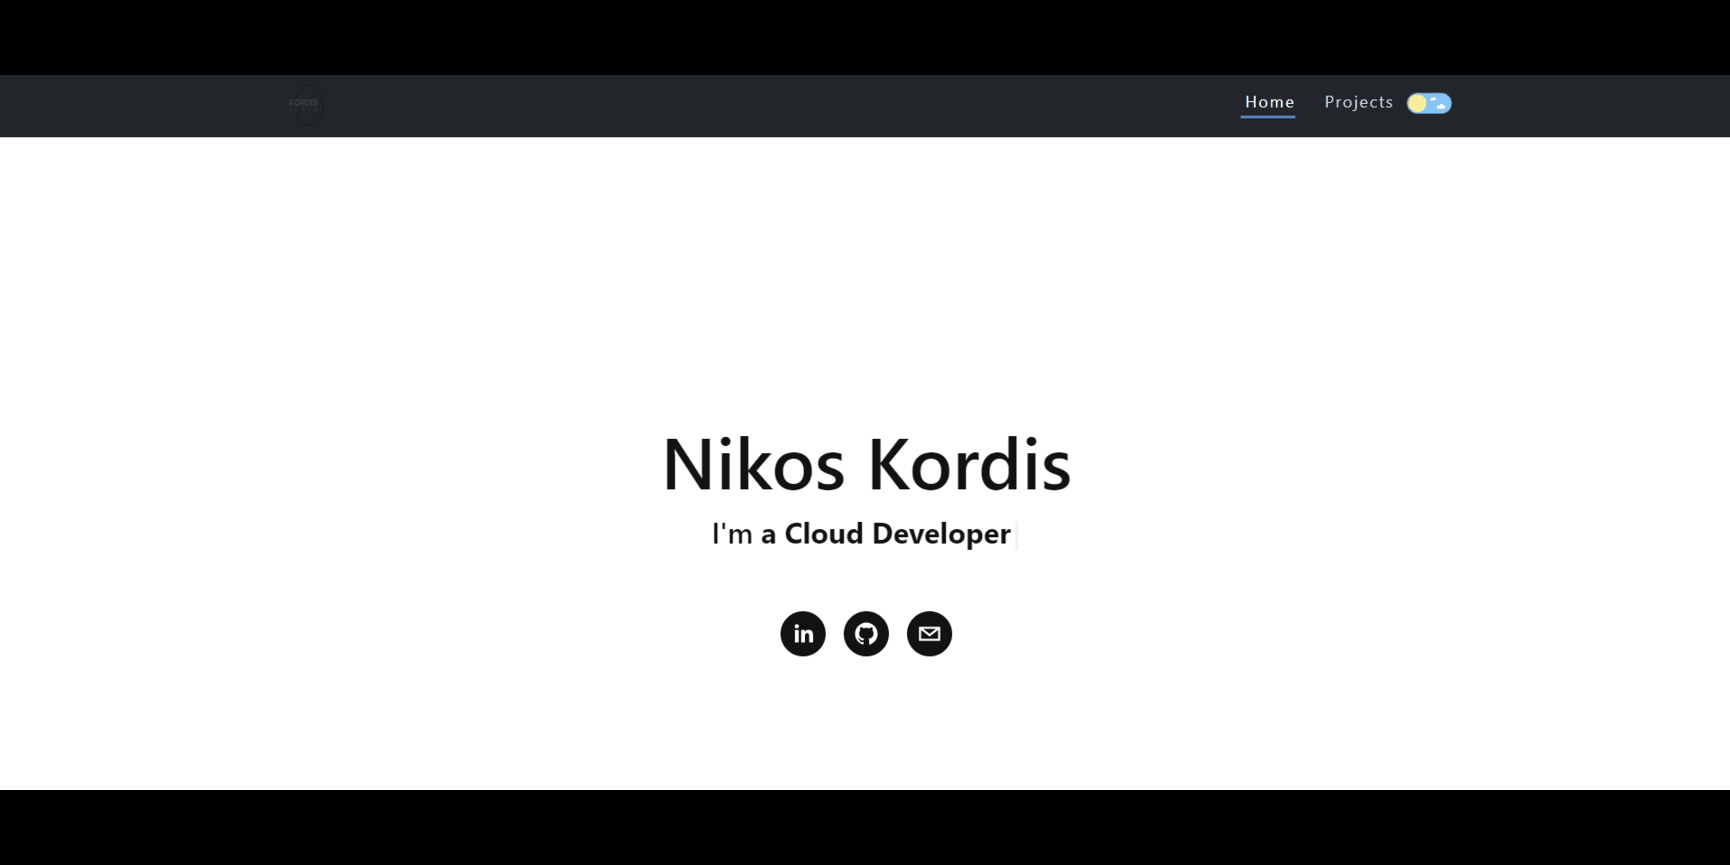
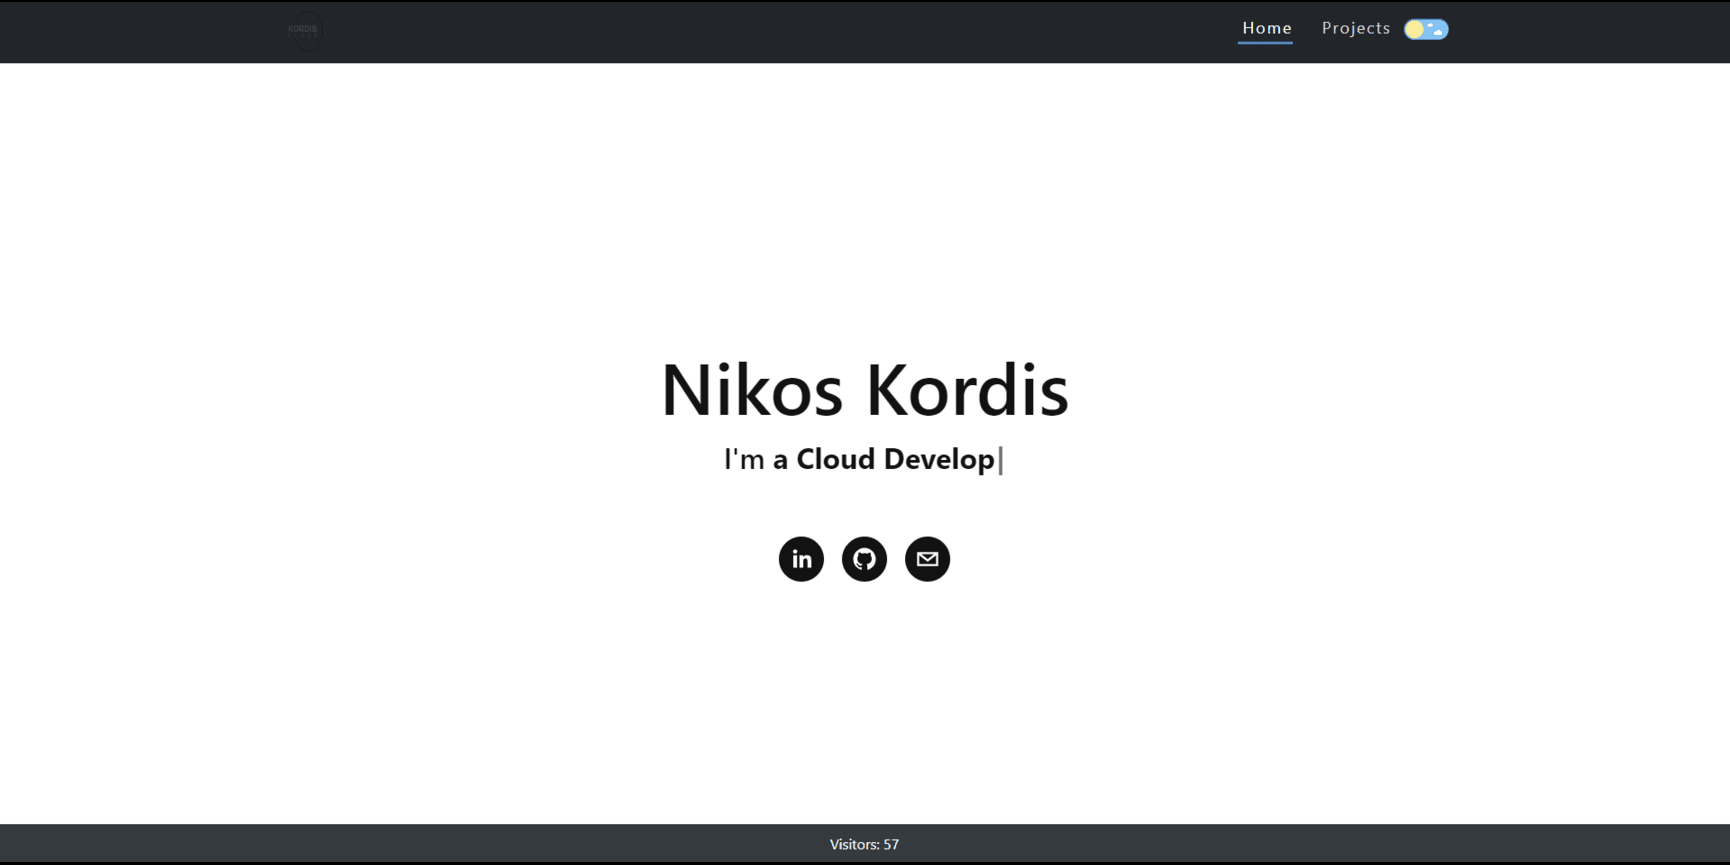
Add dynamic visitor count to footer component

diff --git a/dev-portfolio/src/components/Footer.jsx b/dev-portfolio/src/components/Footer.jsx
@@ -1,4 +1,6 @@
-import React from 'react';
+import React, { useState, useEffect } from 'react';
+
+const API_URL = 'https://i1nk81bamc.execute-api.us-east-1.amazonaws.com/Prod/visits';
 
 const styles = {
   footerContainer: {
@@ -14,10 +16,36 @@ const styles = {
   },
 };
 
-const Footer = () => (
-  <div style={styles.footerContainer}>
-    Visitors: 14
-  </div>
-);
+const Footer = () => {
+  const [visitorCount, setVisitorCount] = useState('Loading...');
+
+  useEffect(() => {
+    const fetchAndUpdateVisitorCount = async () => {
+      try {
+        // Update visitor count first
+        await fetch(API_URL, { method: 'PUT' });
+        // Then fetch the updated count
+        const response = await fetch(API_URL);
+        if (!response.ok) {
+          throw new Error('Failed to fetch visitor count');
+        }
+        const data = await response.json();
+        setVisitorCount(data.visitsCount ?? 'Unavailable'); // Use nullish coalescing to handle undefined counts
+      } catch (error) {
+        setVisitorCount('Failed to load');
+      }
+    };
+
+    fetchAndUpdateVisitorCount(); // Initialize visitor count update and fetch on mount
+  }, []);
+
+  return (
+    <div style={styles.footerContainer}>
+      Visitors:
+      {' '}
+      {visitorCount}
+    </div>
+  );
+};
 
 export default Footer;
